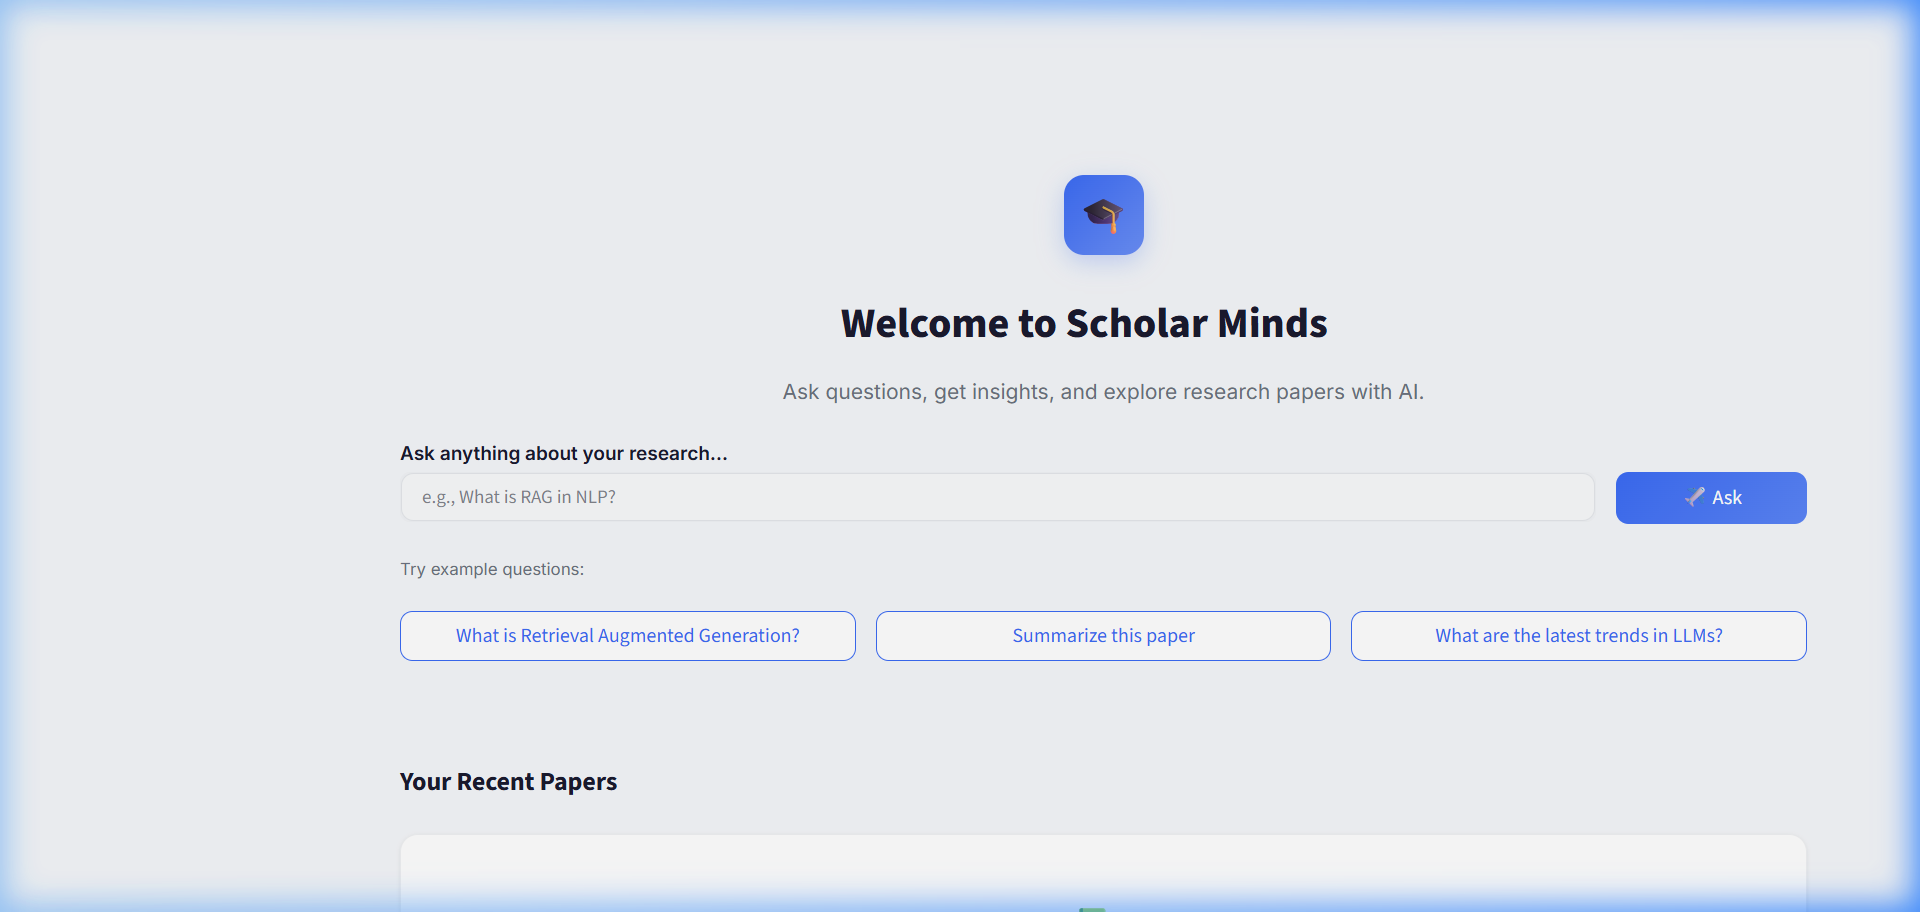
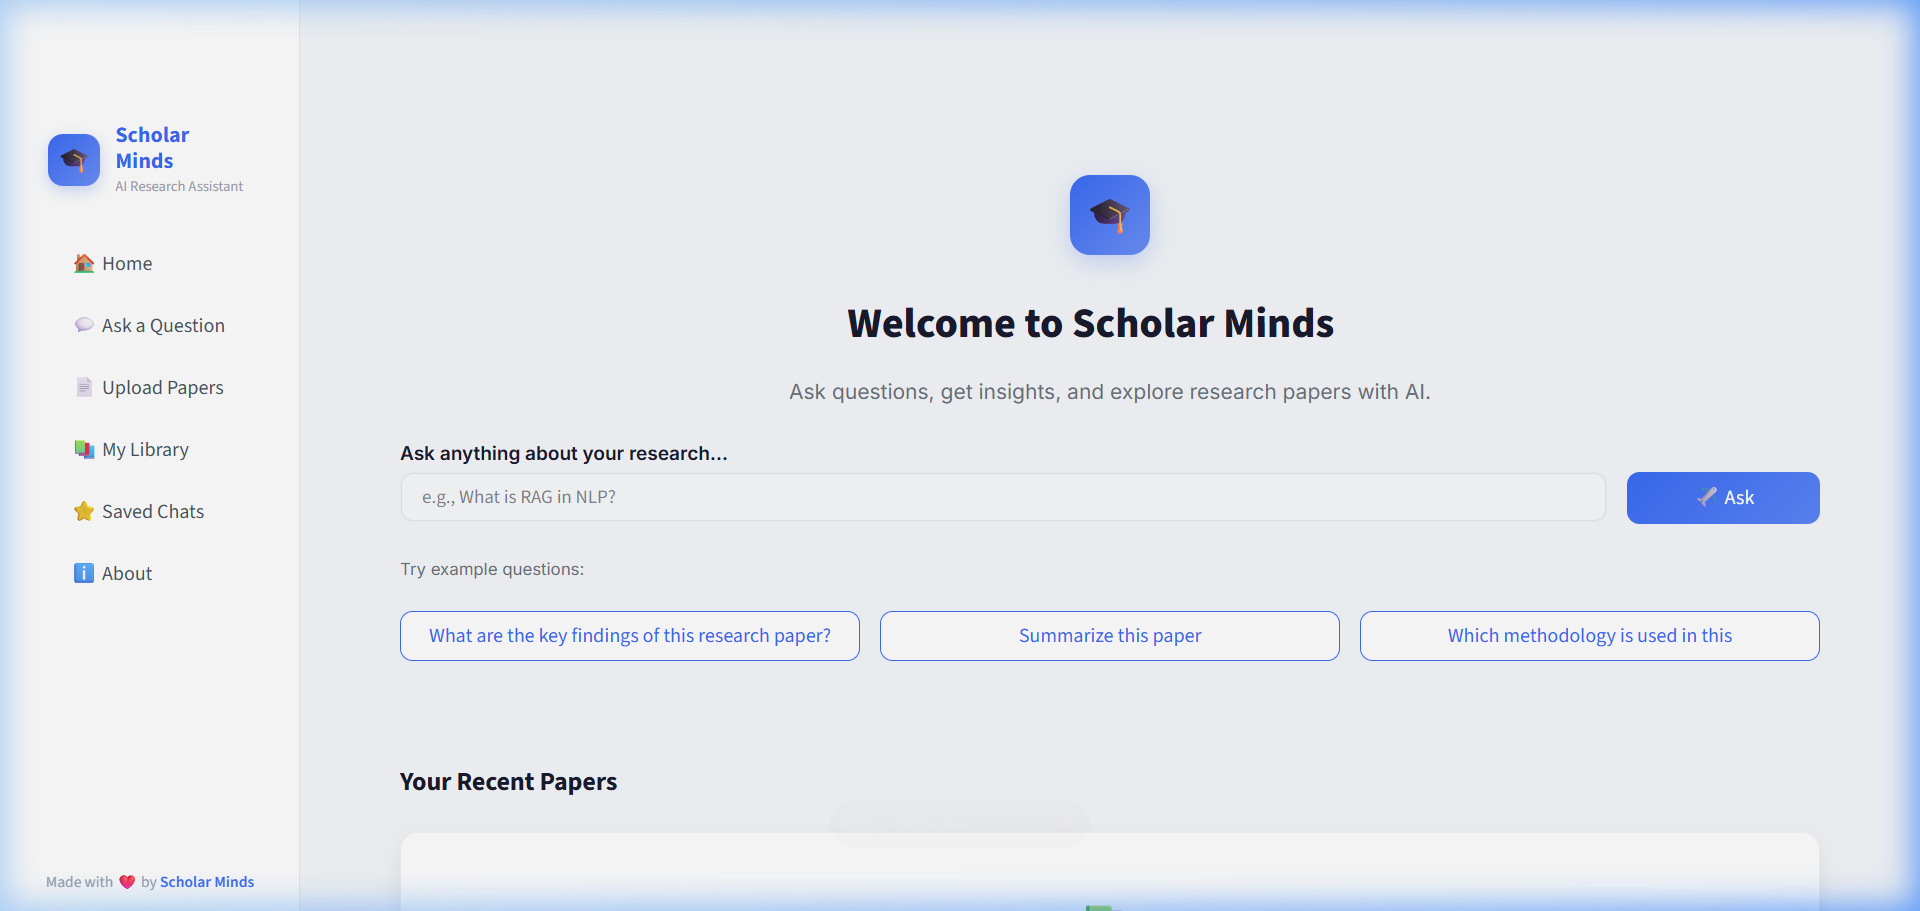
Images updated

diff --git a/README.md b/README.md
@@ -16,17 +16,20 @@ Designed and optimized for edge AI deployment using **NVIDIA Jetson** and **Olla
 
 ## 📸 Screenshots
 
-### 🏠 Home & Upload Interface
+### 🏠 Home Page
 ![Scholar Minds Home Page](docs/screenshots/home_page.png)
 
+### 📄 Upload Papers
+![Upload Papers](docs/screenshots/upload_papers.png)
+
+### 📚 My Library
+![My Library](docs/screenshots/my_library.png)
+
 ### 💬 Q&A Chat Interface (with Citations)
-![Scholar Minds Q&A Chat Page](docs/screenshots/qa_page.png)
+![Q&A Chat Interface](docs/screenshots/qa_page.png)
 
-### ℹ️ About Page — RAG Pipeline Flow
-![Scholar Minds About Page Top](docs/screenshots/about_page_top.png)
-
-### 🛠️ About Page — Tech Stack & Team
-![Scholar Minds About Page Bottom](docs/screenshots/about_page_bottom.png)
+### ℹ️ About Page — Project & RAG Pipeline
+![About Page](docs/screenshots/about_page.png)
 
 ---
 
@@ -122,9 +125,10 @@ ScholarMinds/
 └── docs/                    # Media & documentation
     └── screenshots/         # App interface screenshots
         ├── home_page.png
+        ├── upload_papers.png
+        ├── my_library.png
         ├── qa_page.png
-        ├── about_page_top.png
-        └── about_page_bottom.png
+        └── about_page.png
 ```
 
 ---